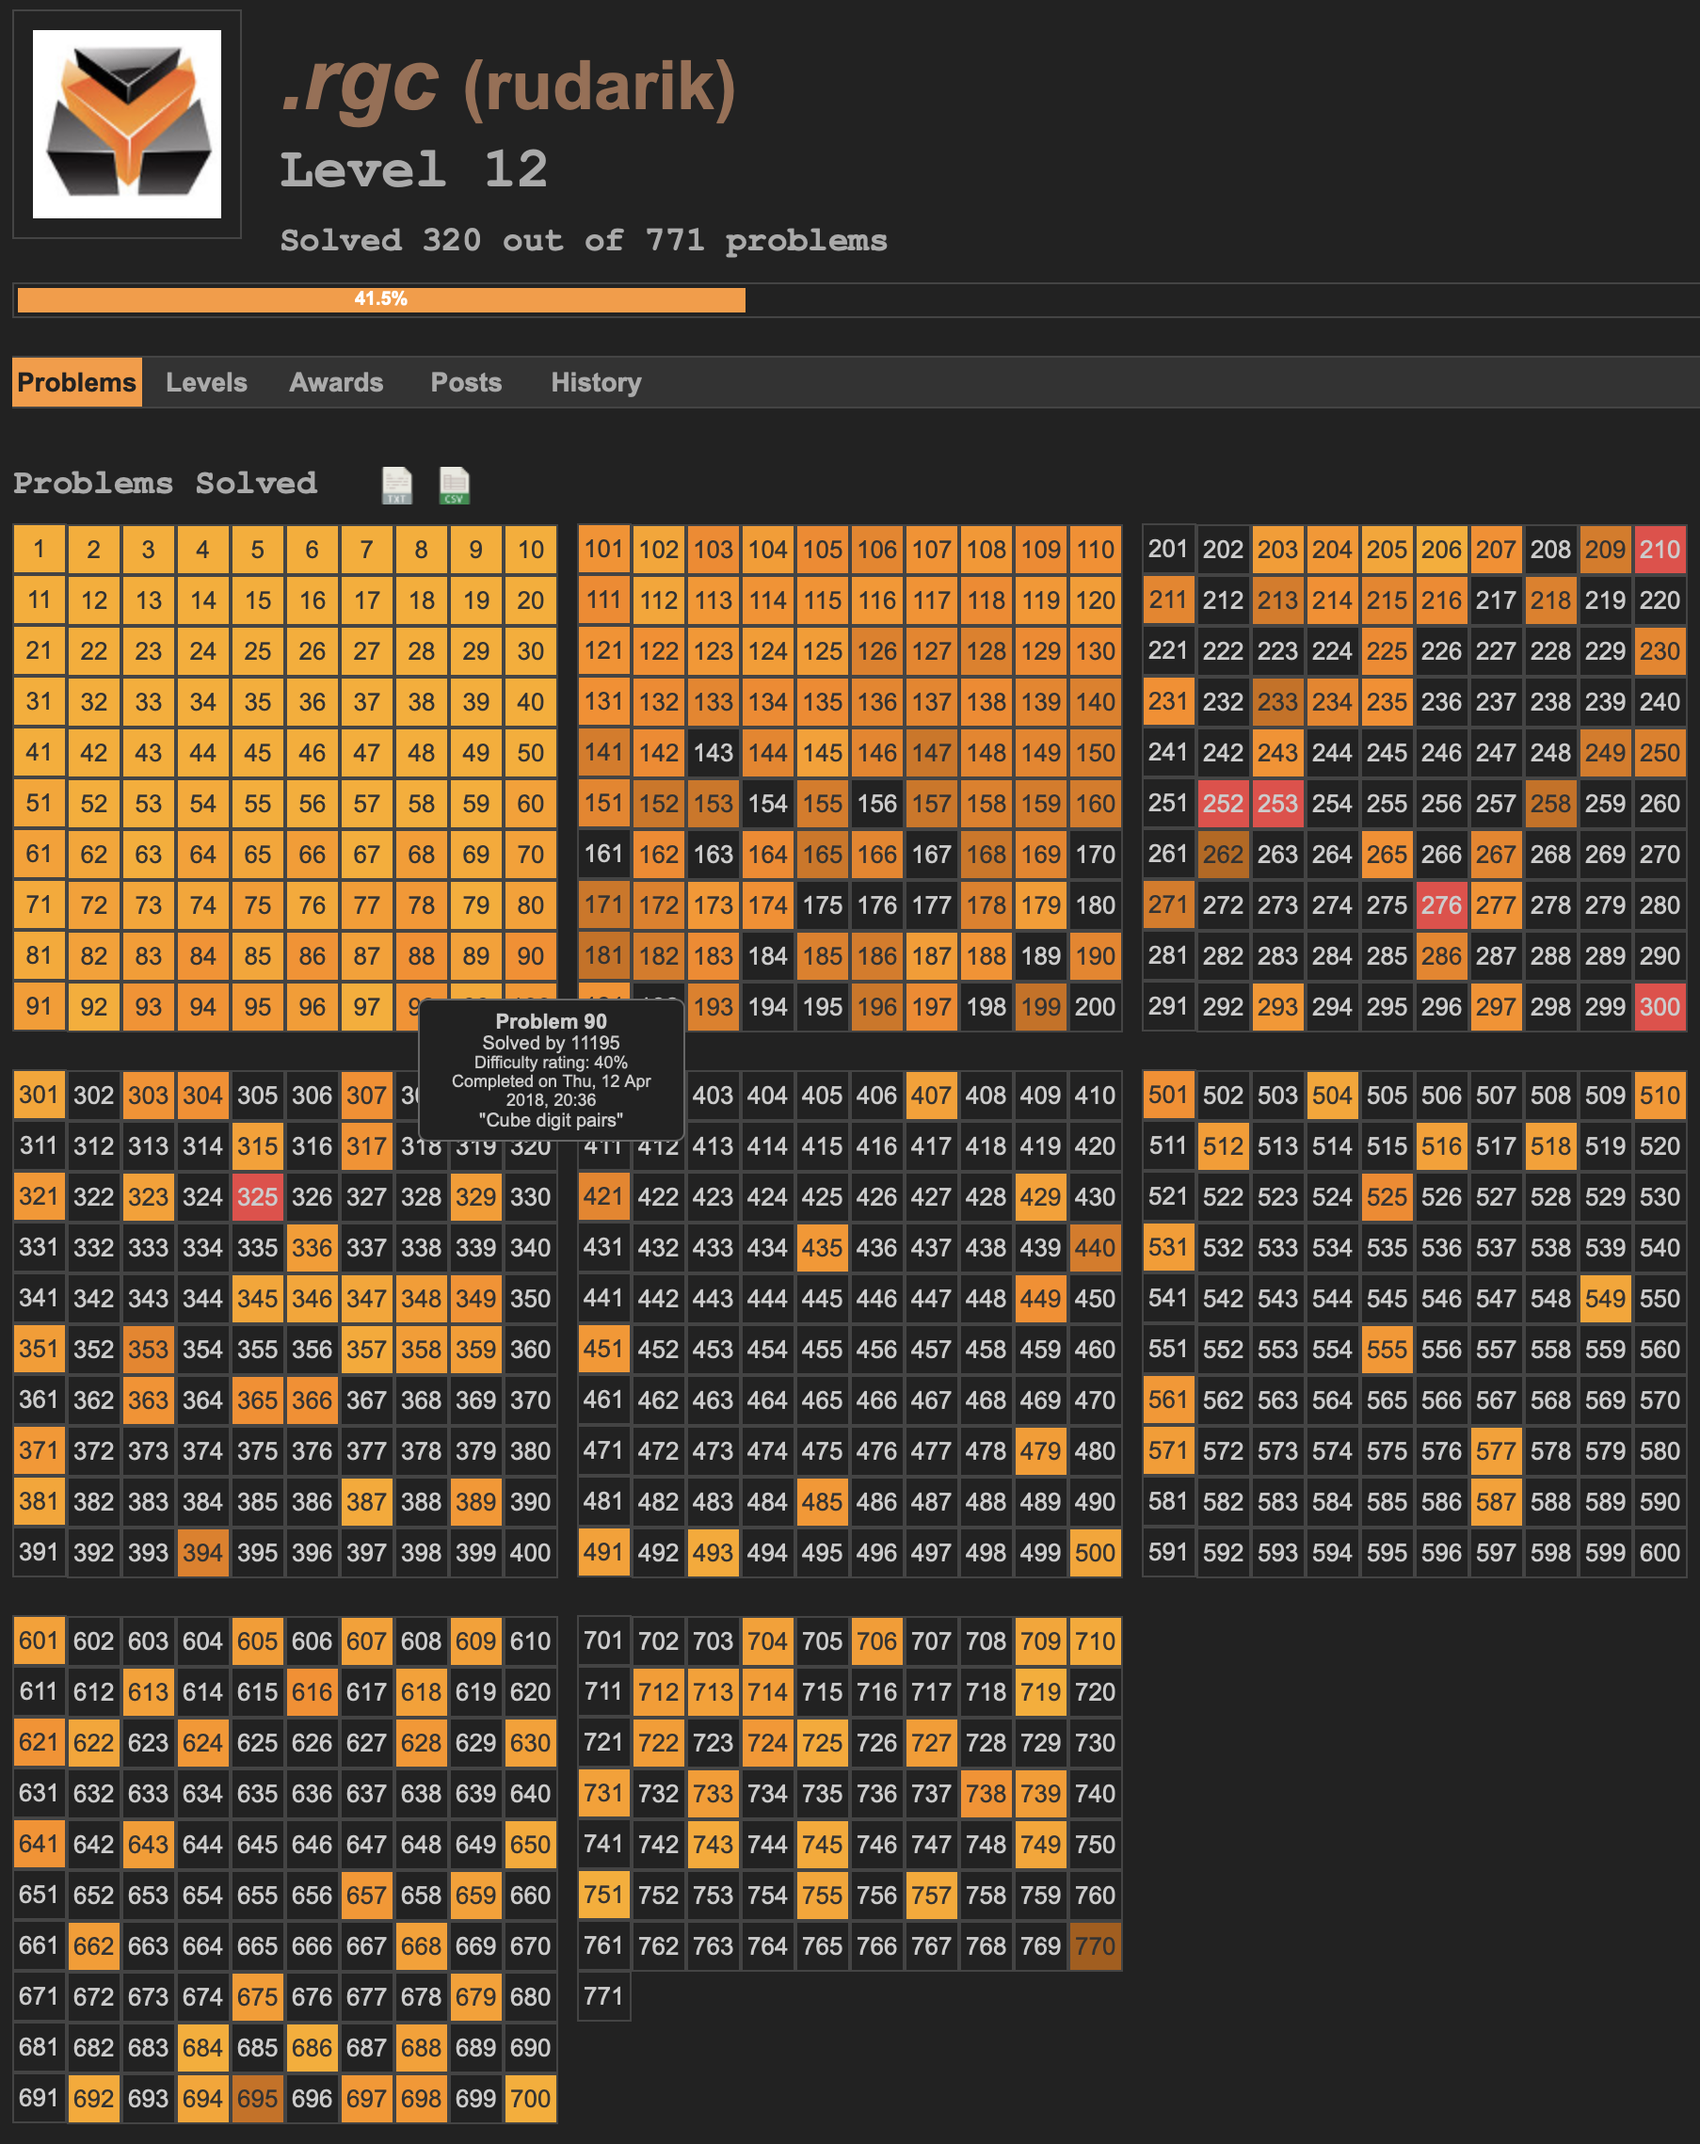
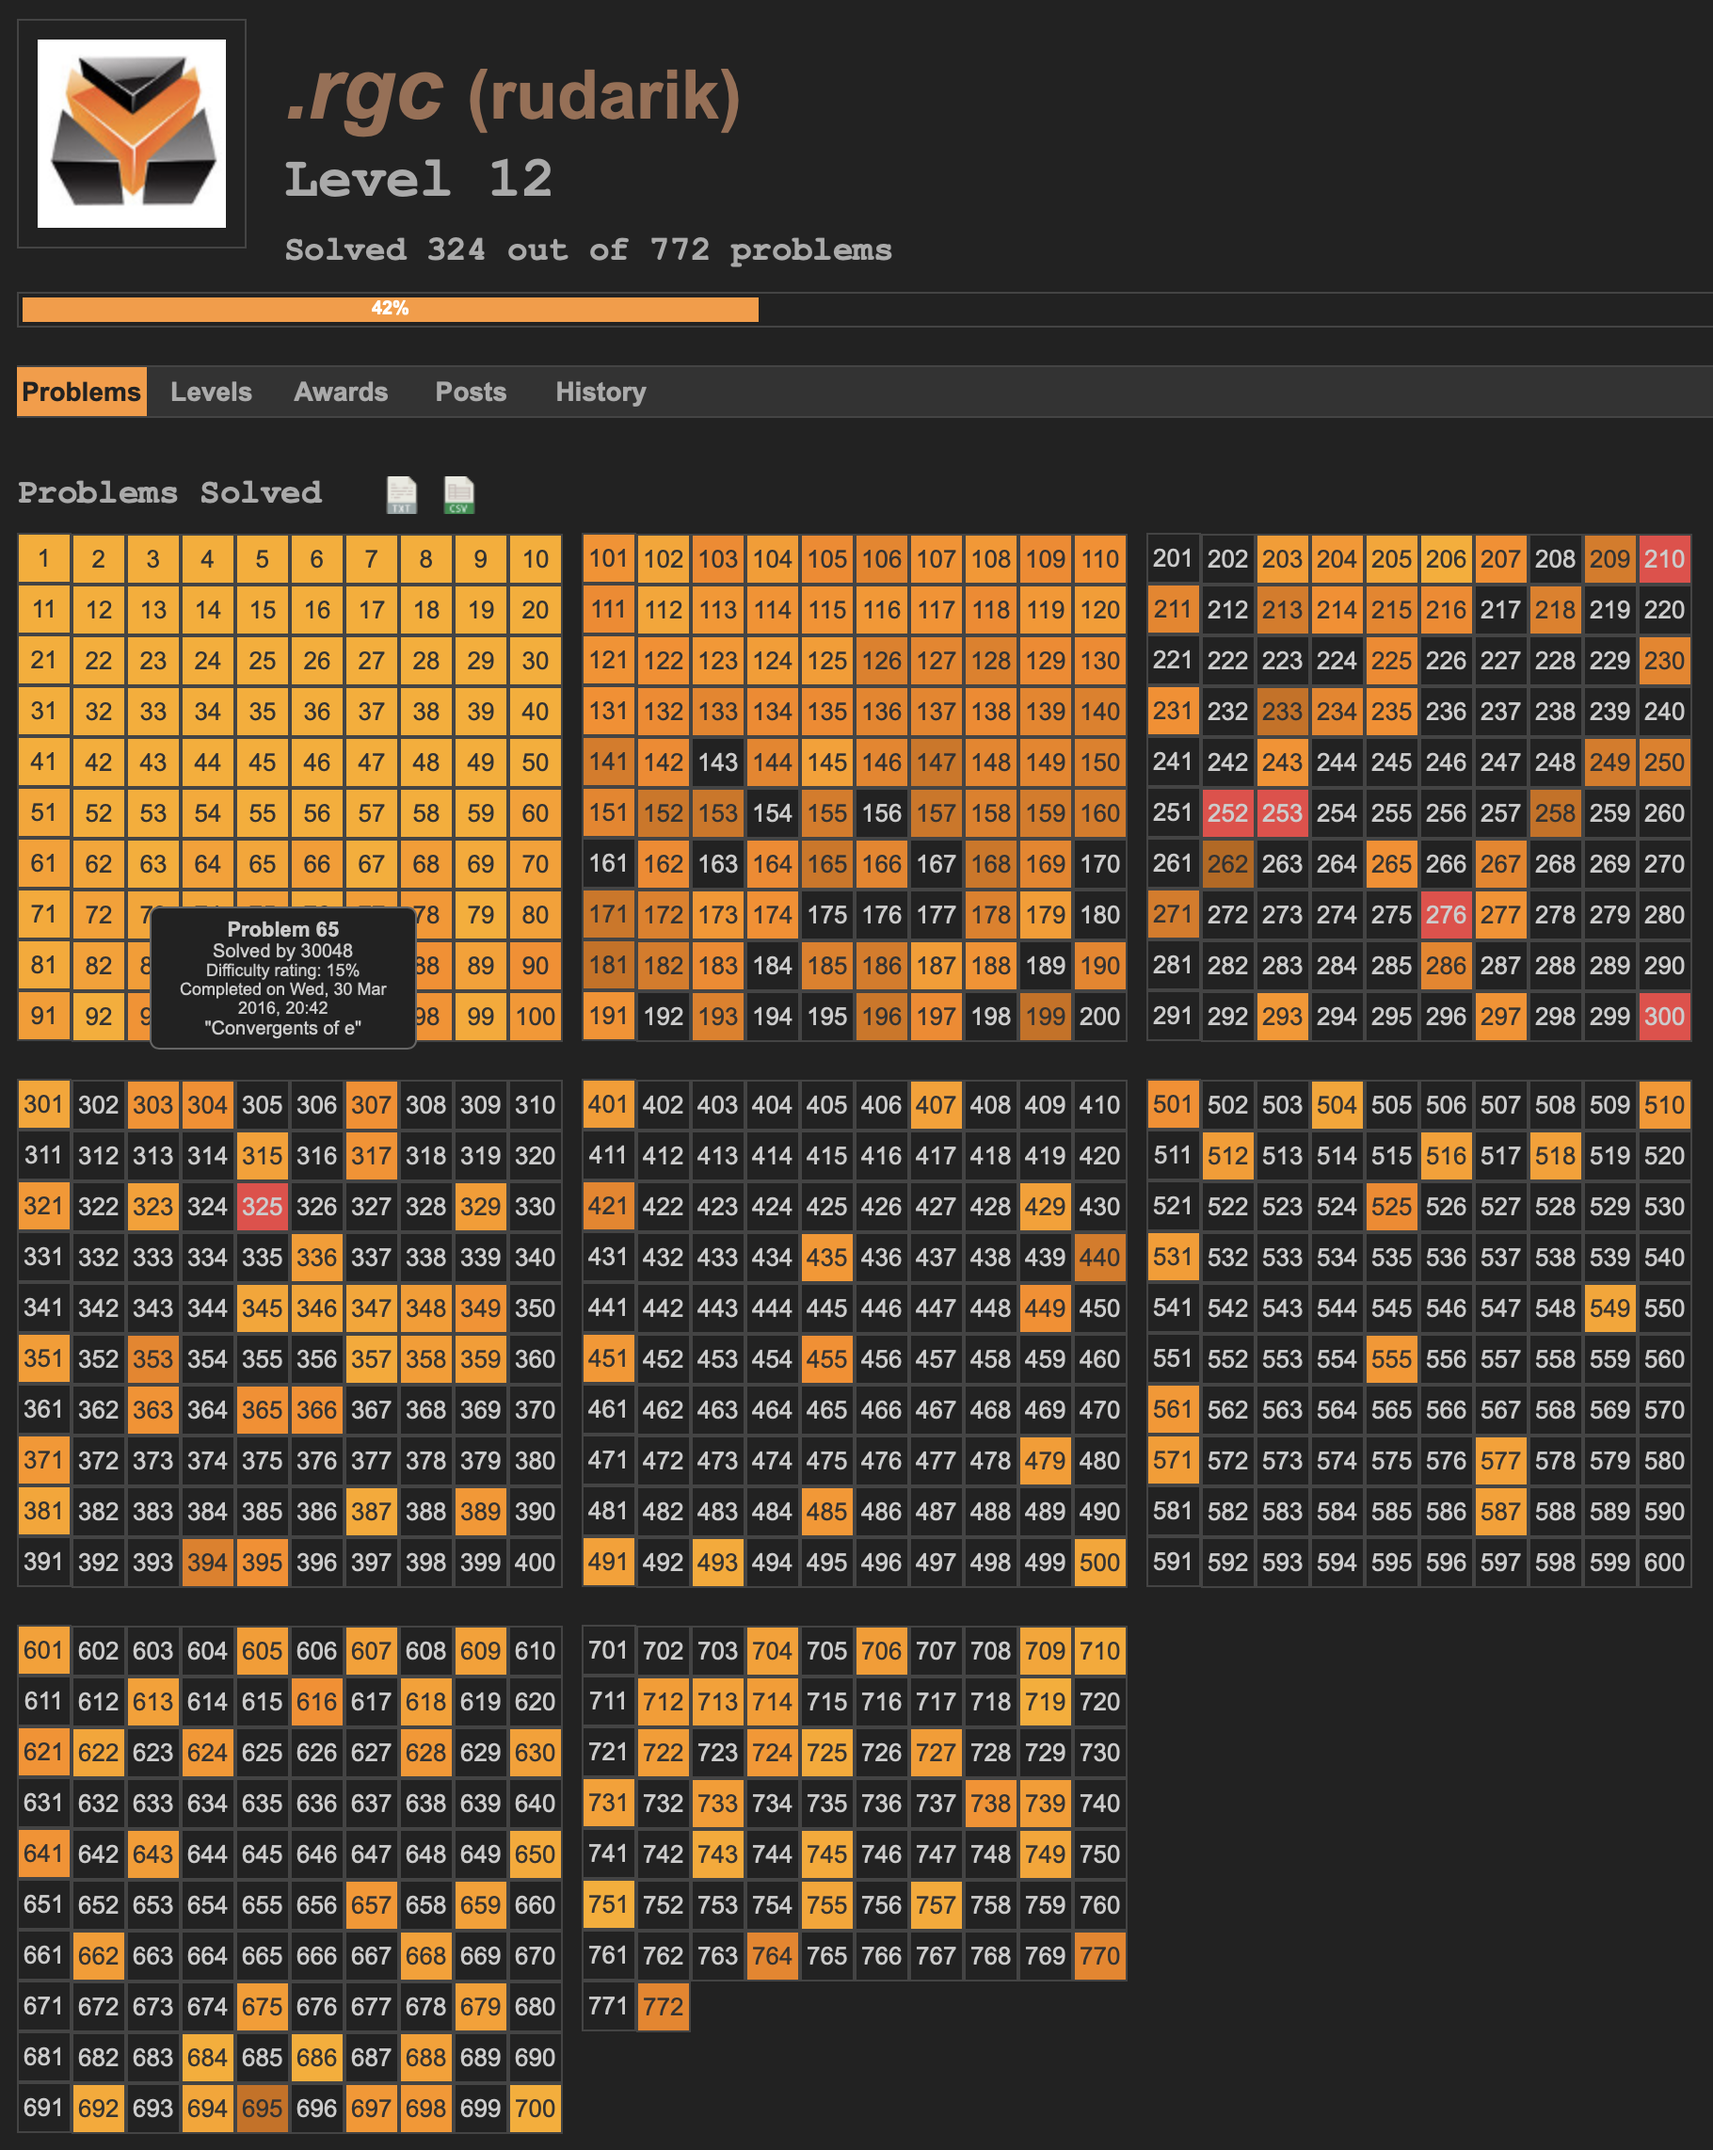
solved 395, 455, 764 and 772

Changed region(s): [[0.0, 0.0, 1.0, 0.9974]]

diff --git a/README.md b/README.md
@@ -76,6 +76,7 @@ My current progress:
 * [Diophantine Equation](https://en.wikipedia.org/wiki/Diophantine_equation)
 
     * Problem 100: "Arranged probability"
+    * Problem 157: "Solving the diophantine equation 1/a+1/b= p/10n"
 
 * [Disjoint-set Data Structure](https://en.wikipedia.org/wiki/Disjoint-set_data_structure)
 
@@ -126,6 +127,10 @@ My current progress:
     * Problem 104: "Pandigital Fibonacci ends"
     * Problem 230: "Fibonacci words"
     * Problem 662: "Fibonacci Paths"
+
+* [Fractal](https://ca.wikipedia.org/wiki/Fractal)
+
+    * Problem 395: "Pythagorean tree"
 
 * [Gamma Function](https://en.wikipedia.org/wiki/Gamma_function)
 
@@ -240,6 +245,7 @@ My current progress:
     * Problem 77: "Prime summations"
     * Problem 78: "Coin partitions"
     * Problem 181: "Investigating in how many ways objects of two different colours can be grouped"
+    * Problem 772: "Balanceable k-bounded partitions"
 
 * [Pascal's Triangle](https://en.wikipedia.org/wiki/Pascal%27s_triangle)
 
@@ -275,6 +281,7 @@ My current progress:
     * Problem 139: "Pythagorean tiles"
     * Problem 142: "Perfect Square Collection"
     * Problem 218: "Perfect right-angled triangles"
+    * Problem 764: "Asymmetric Diophantine Equation"
 
 * [Recurrence Relation](https://en.wikipedia.org/wiki/Recurrence_relation)
 
